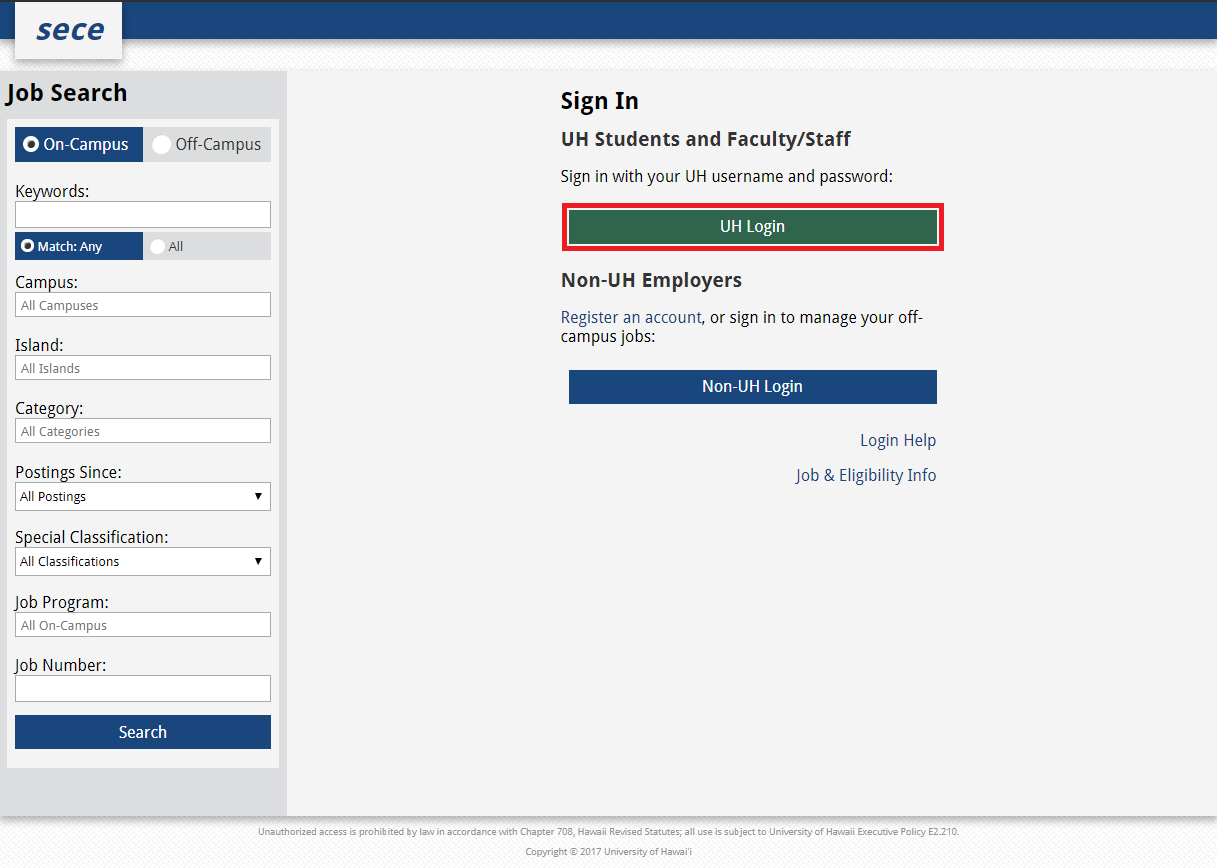
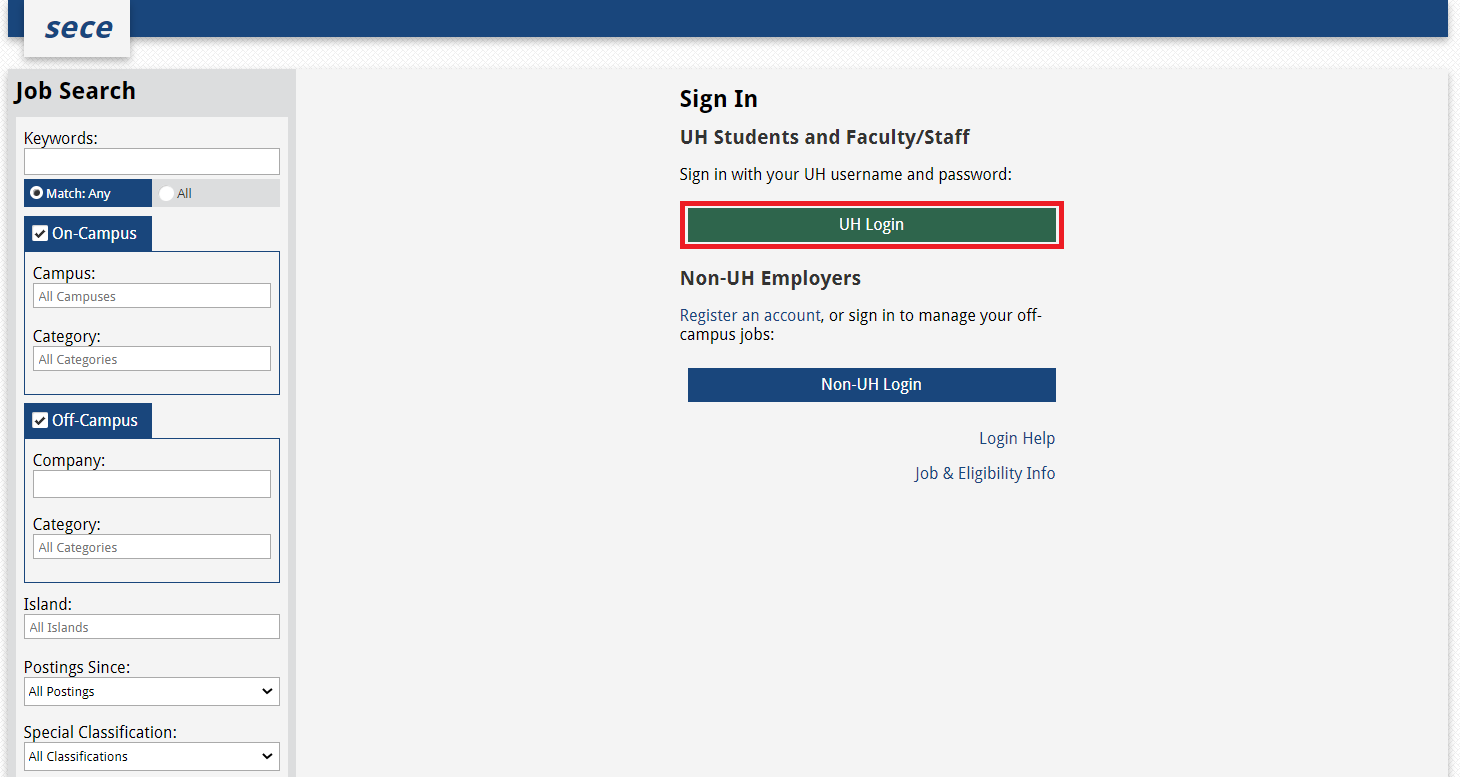
Update screenshots to reflect new job search

diff --git a/src/App.css b/src/App.css
@@ -154,8 +154,9 @@ div.arrow-link button:hover {
 }
 
 img.screenshot {
-  width: 100%;
-  margin: 0;
+  max-width: 100%;
+  display: block;
+  margin: auto;
   z-index: 1;
 }
 
